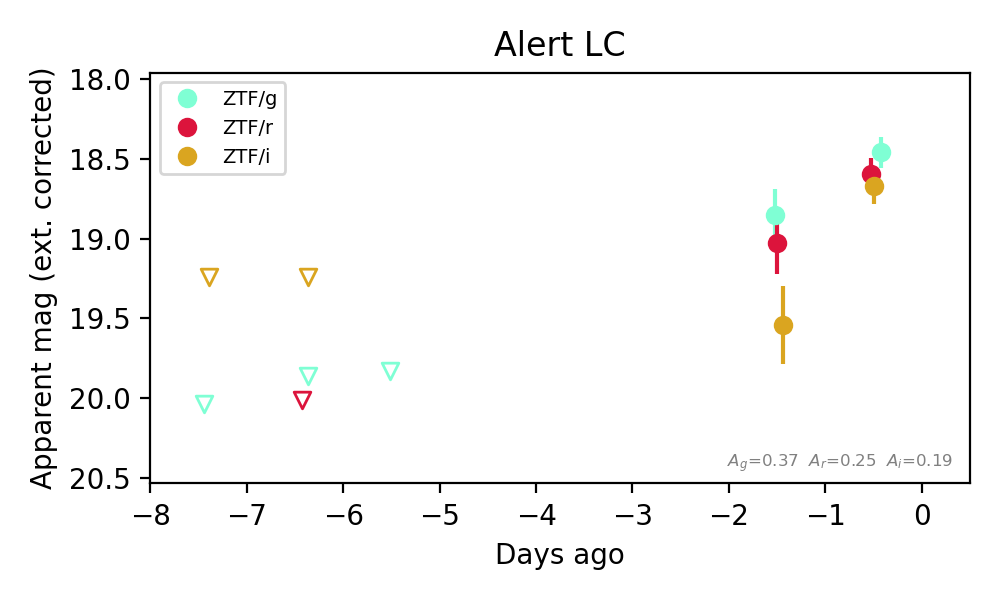
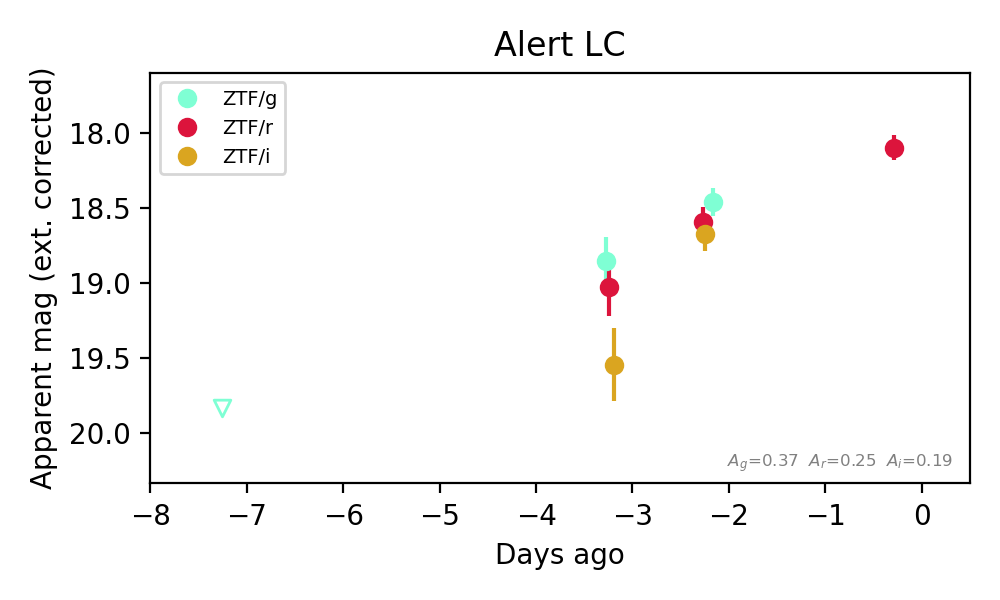
Update HTML from cron job on Sat Oct 17 07:03:48 AM EDT 2026

diff --git a/html/20261017_fastcand.html b/html/20261017_fastcand.html
@@ -1,0 +1,1 @@
+<!doctype html><html><head><title>SOURCE MARSHAL</title><style>                  * {                     box-sizing: border-box;                  }                /* Create two equal columns that floats next to each other */                .column {                         float: left;                         width: 50%;                         padding: 10px;                         #height: 220px; /* Should be removed. Only for demonstration */                }                /* Clear floats after the columns */                .row:after {                        content: "";                        display: table;                        clear: both;                }                /* Rounded corner definition */                #rcorners2 {                    border-radius: 15px;                    border: 2px solid #73AD21;                    padding: 15px;                     width: 80%;                }                table, th, td {                    border: 1px solid black;                    border-collapse: collapse;                }                th, td {                    padding: 5px;                }                th {                    text-align: right;                }                .boxed {                    width: 300px;                    border: 3px outset green;                    text-align: center;                    font-size: 20px;                    margin: 10px;                }                 </style></head><body><font size="5" color="green">Candidate List 20261017</font></br><font size="3" color="green">Last night &mdash; ZTF: 1,356 passed basic cuts (6 young) &middot; LSST: 0 passed basic cuts (0 young)</font></br></br><a href=20261016_fastcand.html target="_blank"><font size="3" color="green">Previous Day</font></a>&nbsp;&nbsp;&nbsp;&nbsp;<a href=20261018_fastcand.html target="_blank"><font size="3" color="green">Next Day</font></a>&nbsp;&nbsp;&nbsp;&nbsp;<br><br><font size="4" color="green"><a href="#sec1">Section 1: New Sources (age<1d)</a></font>&nbsp;&nbsp;&nbsp;&nbsp;<font size="4" color="green"><a href="#sec2">Section 2: Old (1-5d) sources observed last night</a></font></br><font size="1" color="white">placeholder</font></br><hr style="width:50%;text-align:left;margin-left:0"><br><div id="sec1"></div><div class="boxed">Section 1: New Afterglow/FBOT Cands Last Night (0)</div><br><br><br><div id="sec2"></div><div class="boxed">Section 2: Older Sources Observed Last Night (2)</div><div id="ZTF26acbcwqx"></div>0. <a href="#ZTF26acbcymh"><b><font size="3">[ZTF] ZTF26acbcymh (Afterglow?)</font></b></a>&nbsp;&nbsp;&nbsp;&nbsp;<a href=#top>[Back to Top]</a>&nbsp;&nbsp;&nbsp;&nbsp;<a href=./ZTF26acbcymh_announcement.txt>[Share]</a>&nbsp;&nbsp;&nbsp;&nbsp;<a href=./ZTF26acbcymh_swifttoo.txt>[Trigger Swift]</a></br>&nbsp;&nbsp;&nbsp;&nbsp;[<a href="https://fritz.science/brokers?objectId=ZTF26acbcymh&survey=ZTF&ra=347.8985223&dec=7.73573&radius=3" target="_blank">Fritz Alert</a>]&nbsp;&nbsp;&nbsp;&nbsp;[<a href="https://fritz.science/source/ZTF26acbcymh" target="_blank">Fritz Source</a>]&nbsp;&nbsp;&nbsp;&nbsp;[<a href="https://lasair-ztf.lsst.ac.uk/objects/ZTF26acbcymh/" target="_blank">Lasair</a>]</br>RA, Dec: 347.89852, 7.73573&nbsp;&nbsp;&nbsp;&nbsp;23h11m35.65s,  7d44m8.63s</br>Galactic (l, b): 84.629, -47.57313&nbsp;&nbsp;&nbsp;&nbsp;ext(g-r) = 0.12</br></br><img src="./ZTF26acbcymh_triplet.png" height="200"><a href = http://ps1images.stsci.edu/cgi-bin/ps1cutouts?pos=347.898522+7.735730&filter=color&filter=g&filter=r&filter=i&filter=z&filter=y&filetypes=stack&auxiliary=data&size=240&output_size=240&verbose=0&autoscale=99.500000><img src="./ZTF26acbcymh_ps1.png" height="200"></a><a href = http://legacysurvey.org/viewer?ra=347.898522&dec=+7.735730&zoom=16&layer=ls-dr10><img src="ZTF26acbcymh_ls.png" height="200"></a></br><br><br>TESS: Sectors [42 56 83 92]<br>SDSS (<15 kpc):Found SDSS phot-z: z=0.09; <b>peak abs mag = -20.07</b><br><br><br><br>PS1: 0 sources in 3 arcsec</br><br><b>LegacySurvey: 1 sources in 3 arcsec</b>&nbsp;&nbsp;&nbsp;&nbsp;Closest: d = 3.77 arcsec, 236.1 deg (east of north)</br>&nbsp;&nbsp;&nbsp;&nbsp;photoz=0.46 (68&#37; bounds 0.27, 0.89),                         type=REX&nbsp;&nbsp;&nbsp;&nbsp;<b>peak abs mag (ext. corrected) = -24.01 (68&#37; bounds -22.67, -25.75)</b><br><img src="ZTF26acbcymh_alert_lc.png" height="300"><br>Extinction-corrected gr color:<br>From alerts: -0.13 +/- 0.14 mag<br>Extinction-corrected gi color:<br>From alerts: -0.21 +/- 0.14 mag<br>Extinction-corrected ri color:<br>From alerts: -0.08 +/- 0.15 mag<br><b> Consistent with synchrotron, g-r>0!</b><br>Rise Rate:<br>g: 0.36 mag/day <br>r: 0.28 mag/day <br>i: 0.92 mag/day <br><br>Fade Rate:<br><br><br><div id="ZTF26acbcqzj"></div>1. <a href="#ZTF26acbepnu"><b><font size="3">[ZTF] ZTF26acbepnu (FBOT?)</font></b></a>&nbsp;&nbsp;&nbsp;&nbsp;<a href=#top>[Back to Top]</a>&nbsp;&nbsp;&nbsp;&nbsp;<a href=./ZTF26acbepnu_announcement.txt>[Share]</a>&nbsp;&nbsp;&nbsp;&nbsp;<a href=./ZTF26acbepnu_swifttoo.txt>[Trigger Swift]</a></br>&nbsp;&nbsp;&nbsp;&nbsp;[<a href="https://fritz.science/brokers?objectId=ZTF26acbepnu&survey=ZTF&ra=62.2944504&dec=-5.9946216&radius=3" target="_blank">Fritz Alert</a>]&nbsp;&nbsp;&nbsp;&nbsp;[<a href="https://fritz.science/source/ZTF26acbepnu" target="_blank">Fritz Source</a>]&nbsp;&nbsp;&nbsp;&nbsp;[<a href="https://lasair-ztf.lsst.ac.uk/objects/ZTF26acbepnu/" target="_blank">Lasair</a>]</br>RA, Dec: 62.29445, -5.99462&nbsp;&nbsp;&nbsp;&nbsp; 4h 9m10.67s, -5d-59m-40.64s</br>Galactic (l, b): 197.9656, -38.55199&nbsp;&nbsp;&nbsp;&nbsp;ext(g-r) = 0.078</br></br><img src="./ZTF26acbepnu_triplet.png" height="200"><a href = http://ps1images.stsci.edu/cgi-bin/ps1cutouts?pos=62.294450-5.994622&filter=color&filter=g&filter=r&filter=i&filter=z&filter=y&filetypes=stack&auxiliary=data&size=240&output_size=240&verbose=0&autoscale=99.500000><img src="./ZTF26acbepnu_ps1.png" height="200"></a><a href = http://legacysurvey.org/viewer?ra=62.294450&dec=-5.994622&zoom=16&layer=ls-dr10><img src="ZTF26acbepnu_ls.png" height="200"></a></br><br><br>TESS: Sectors [  5  32 109 110]<br>SDSS (<15 kpc):Found SDSS phot-z: z=0.42; <b>peak abs mag = -23.10</b><br>NED host (10 arcsec):Found WISEA J040910.54-055947.0 (G, 6.7&#8243;); NED spec-z: z=0.0382 [zflag SLS]; <b>peak abs mag = -17.44</b><br><br><br>PS1: 0 sources in 3 arcsec</br><br><b>LegacySurvey: 1 sources in 3 arcsec</b>&nbsp;&nbsp;&nbsp;&nbsp;Closest: d = 0.40 arcsec, 107.8 deg (east of north)</br>&nbsp;&nbsp;&nbsp;&nbsp;photoz=0.05 (68&#37; bounds 0.01, 0.23),                         type=EXP&nbsp;&nbsp;&nbsp;&nbsp;<b>peak abs mag (ext. corrected) = -18.1 (68&#37; bounds -14.86, -21.6)</b><br><img src="ZTF26acbepnu_alert_lc.png" height="300"><br>Extinction-corrected gr color:<br>From alerts: -0.14 +/- 0.14 mag<br>Extinction-corrected gi color:<br>From alerts: -0.05 +/- 0.21 mag<br>Extinction-corrected ri color:<br>From alerts: 0.09 +/- 0.22 mag<br><b> Consistent with synchrotron, g-r>0!</b><br>Rise Rate:<br>g: 0.24 mag/day <br>r: 0.17 mag/day <br>i: 0.13 mag/day <br><br>Fade Rate:<br><br><br><br>
